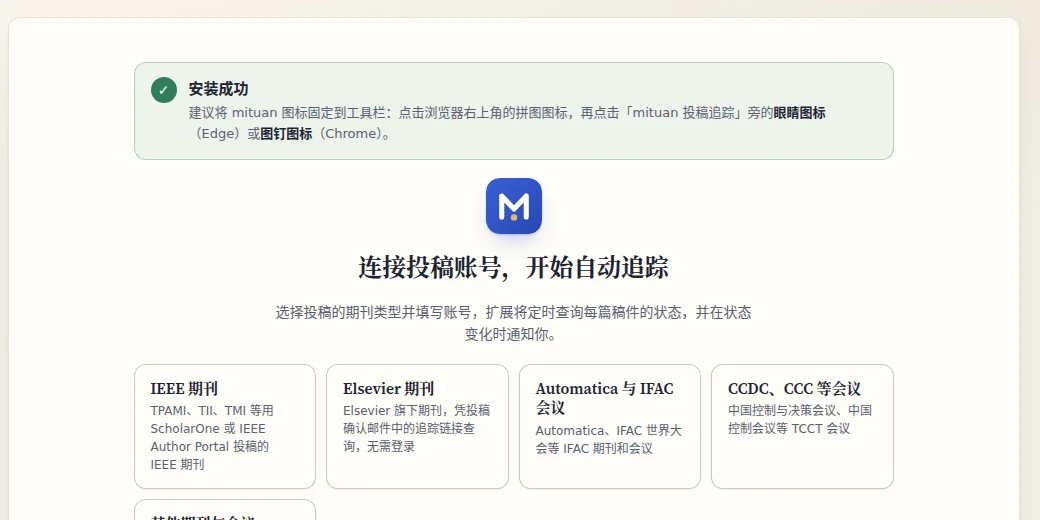
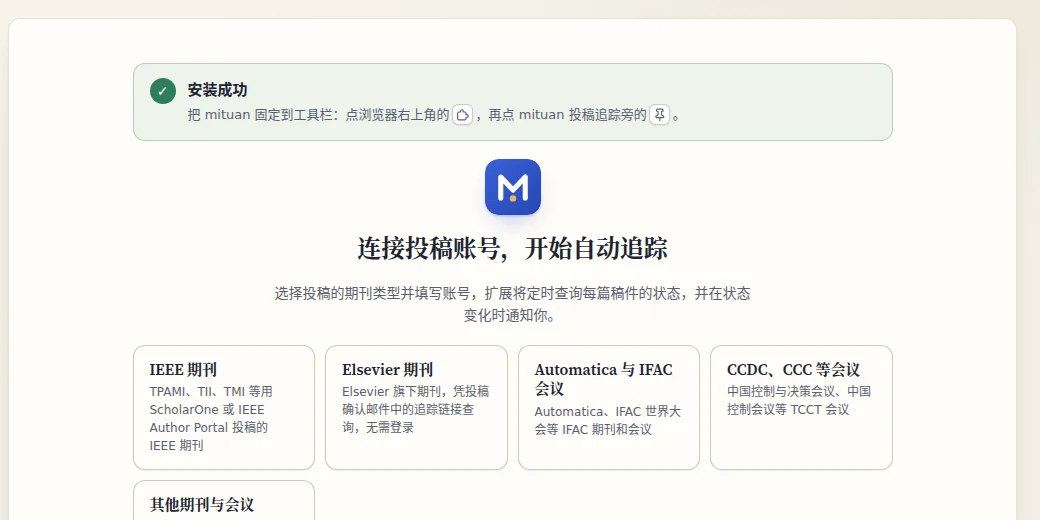
feat(site): let Edge install from the Chrome Web Store
The Chrome Web Store listing is live while Edge Add-ons is still in review, and Edge can install extensions from the Chrome Web Store. The install panel now reflects that:

- Mark both Edge and Chrome as recommended.
- Keep Edge Add-ons at the top of the Edge tab. While it is in review it shows a dashed "in review" placeholder followed by the Chrome Web Store button and its steps; once it is live, the Chrome Web Store drops to a one-line link.
- Replace the heavy solid store buttons and the store headings with a lighter tinted button that follows the light and dark themes.
- Show toolbar icons instead of words in the pin tip, with the Edge eye or Chrome pin per tab, and pick the matching welcome screenshot.
- Top-align the screenshot so it stays put when switching tabs.
- List Brave, Vivaldi and Opera in full on the Other Chromium tab, and drop the redundant first step and the duplicate FAQ entry.

diff --git a/site/index.html b/site/index.html
@@ -188,15 +188,16 @@
     </div>
   </section>
 
-  <!-- 安装：只从浏览器的扩展商店安装。__EDGE_URL__、__CHROME_URL__ 由 scripts/build-site.sh 填入；还没上架的商店留空，site.js 会显示“审核中” -->
+  <!-- 安装：只从浏览器的扩展商店安装。__EDGE_URL__、__CHROME_URL__ 由 scripts/build-site.sh 填入，还没上架的商店留空。
+       Edge 优先用 Edge 加载项，还没上架时改用 Chrome 应用商店（Edge 可以直接安装那里的扩展），由 site.js 选择 -->
   <section class="wrap" id="install">
     <div class="head"><h2><span data-l="zh">安装</span><span data-l="en">Install</span></h2>
       <p><span data-l="zh">从浏览器的扩展商店安装，点一下就好，之后自动更新。</span><span data-l="en">Install from your browser’s extension store in one click. Updates are automatic.</span></p></div>
     <div class="mobile-note card" id="mobileNote" hidden><span data-l="zh">手机浏览器不支持扩展，请在电脑上访问 <b>tracker.eonmaze.com</b> 安装。</span><span data-l="en">Mobile browsers do not support extensions. Open <b>tracker.eonmaze.com</b> on a computer to install.</span></div>
     <div class="browsers" role="tablist" aria-label="Choose your browser">
-      <button type="button" role="tab" data-b="edge"><span class="bi bi-edge"></span>Edge<small><span data-l="zh">推荐</span><span data-l="en">Recommended</span></small></button>
-      <button type="button" role="tab" data-b="chrome"><span class="bi bi-chrome"></span>Chrome<small>Google</small></button>
-      <button type="button" role="tab" data-b="chromium"><span class="bi bi-other"></span><span data-l="zh">其他 Chromium</span><span data-l="en">Other Chromium</span><small><span data-l="zh">Brave、Vivaldi…</span><span data-l="en">Brave, Vivaldi…</span></small></button>
+      <button type="button" role="tab" data-b="edge"><span class="bi bi-edge"></span>Edge<small class="rec"><span data-l="zh">推荐</span><span data-l="en">Recommended</span></small></button>
+      <button type="button" role="tab" data-b="chrome"><span class="bi bi-chrome"></span>Chrome<small class="rec"><span data-l="zh">推荐</span><span data-l="en">Recommended</span></small></button>
+      <button type="button" role="tab" data-b="chromium"><span class="bi bi-other"></span><span data-l="zh">其他 Chromium</span><span data-l="en">Other Chromium</span><small><span data-l="zh">Brave、Vivaldi、Opera</span><span data-l="en">Brave, Vivaldi, Opera</span></small></button>
       <button type="button" role="tab" data-b="firefox"><span class="bi bi-firefox"></span>Firefox<small><span data-l="zh">暂不支持</span><span data-l="en">Not supported</span></small></button>
       <button type="button" role="tab" data-b="safari"><span class="bi bi-safari"></span>Safari<small><span data-l="zh">暂不支持</span><span data-l="en">Not supported</span></small></button>
     </div>
@@ -204,40 +205,41 @@
     <div class="card panel" data-for="edge chrome chromium">
       <div class="store">
         <div class="itxt">
-          <div data-only="edge">
-            <h3><span class="bi bi-edge"></span><span data-l="zh">Microsoft Edge 加载项</span><span data-l="en">Microsoft Edge Add-ons</span></h3>
-            <a class="btn primary lg" href="__EDGE_URL__" target="_blank" rel="noopener" data-store="edge"><span data-l="zh">从 Edge 加载项获取</span><span data-l="en">Get it from Edge Add-ons</span></a>
+          <!-- 每个商店一块：按钮写好商店地址，build-site.sh 填入；还没上架的留空，site.js 换成“审核中”占位 -->
+          <div data-only="edge" data-via="edge">
+            <a class="btn get" href="__EDGE_URL__" target="_blank" rel="noopener" data-store="edge"><span data-l="zh">前往 Edge 加载项</span><span data-l="en">Open Edge Add-ons</span></a>
             <ol class="do">
-              <li><span data-l="zh">点上面的按钮，打开「mituan 投稿追踪」的商店页面。</span><span data-l="en">Click the button above to open the “mituan Manuscript Tracker” store page.</span></li>
               <li><span data-l="zh">点<b>「获取」</b>，在弹出的窗口中点<b>「添加扩展」</b>。</span><span data-l="en">Click <b>“Get”</b>, then <b>“Add extension”</b> in the dialog.</span></li>
-              <li><span data-l="zh">浏览器会自动打开「安装成功」页面。在那里选择期刊类型、连接账号，扩展就开始在后台查询。</span><span data-l="en">The browser opens a welcome page. Choose your journal types and connect your accounts there; checks then run in the background.</span></li>
+              <li><span data-l="zh">装好后会自动打开「安装成功」页面，按提示连接账号即可。</span><span data-l="en">A welcome page opens after installing. Follow it to connect your accounts.</span></li>
             </ol>
-            <p class="tip"><span data-l="zh">建议把图标固定到工具栏：点浏览器右上角的<b>拼图图标</b>，再点「mituan 投稿追踪」旁的<b>眼睛图标</b>。</span><span data-l="en">Pin the icon to the toolbar: click the <b>puzzle icon</b> at the top right of the browser, then the <b>eye icon</b> next to “mituan Manuscript Tracker”.</span></p>
           </div>
-          <div data-only="chrome chromium">
-            <h3><span class="bi bi-chrome"></span><span data-l="zh">Chrome 应用商店</span><span data-l="en">Chrome Web Store</span></h3>
-            <a class="btn primary lg" href="__CHROME_URL__" target="_blank" rel="noopener" data-store="chrome"><span data-l="zh">从 Chrome 应用商店添加</span><span data-l="en">Add from Chrome Web Store</span></a>
-            <p class="cn-note" hidden><span data-l="zh">中国大陆通常打不开 Chrome 应用商店，可以改用 Edge 打开本页安装。</span><span data-l="en">The Chrome Web Store usually doesn’t open in mainland China. Open this page in Edge and install from there instead.</span></p>
+          <!-- Edge 页签里只在 Edge 加载项还没上架时出现，见 site.js -->
+          <div data-only="edge chrome chromium" data-via="chrome">
+            <p class="or" data-only="edge"><span data-l="zh">现在可以先从 Chrome 应用商店安装：</span><span data-l="en">For now, you can install it from the Chrome Web Store:</span></p>
+            <a class="btn get" href="__CHROME_URL__" target="_blank" rel="noopener" data-store="chrome"><span data-l="zh">前往 Chrome 应用商店</span><span data-l="en">Open Chrome Web Store</span></a>
+            <p class="cn-note" data-edge="live" hidden><span data-l="zh">中国大陆通常打不开 Chrome 应用商店，可以改用 Edge 打开本页安装。</span><span data-l="en">The Chrome Web Store usually doesn’t open in mainland China. Open this page in Edge and install from there instead.</span></p>
+            <p class="cn-note" data-edge="pending" hidden><span data-l="zh">中国大陆通常打不开 Chrome 应用商店，可以等 Edge 加载项上线后用 Edge 安装。</span><span data-l="en">The Chrome Web Store usually doesn’t open in mainland China. You can install with Edge once the Edge Add-ons listing is live.</span></p>
             <ol class="do">
-              <li><span data-l="zh">点上面的按钮，打开「mituan 投稿追踪」的商店页面。</span><span data-l="en">Click the button above to open the “mituan Manuscript Tracker” store page.</span></li>
-              <li><span data-l="zh">点<b>「添加至 Chrome」</b>，在弹出的窗口中点<b>「添加扩展程序」</b>。</span><span data-l="en">Click <b>“Add to Chrome”</b>, then <b>“Add extension”</b> in the dialog.</span></li>
-              <li><span data-l="zh">浏览器会自动打开「安装成功」页面。在那里选择期刊类型、连接账号，扩展就开始在后台查询。</span><span data-l="en">The browser opens a welcome page. Choose your journal types and connect your accounts there; checks then run in the background.</span></li>
+              <li data-only="edge"><span data-l="zh">首次安装时，点页面顶部的<b>「允许来自其他应用商店的扩展」</b>，再点<b>「允许」</b>。</span><span data-l="en">The first time, click <b>“Allow extensions from other stores”</b> at the top of the page, then <b>“Allow”</b>.</span></li>
+              <li data-only="edge"><span data-l="zh">点<b>「添加至 Chrome」</b>，在弹出的窗口中点<b>「添加扩展」</b>。</span><span data-l="en">Click <b>“Add to Chrome”</b>, then <b>“Add extension”</b> in the dialog.</span></li>
+              <li data-only="chrome"><span data-l="zh">点<b>「添加至 Chrome」</b>，在弹出的窗口中点<b>「添加扩展程序」</b>。</span><span data-l="en">Click <b>“Add to Chrome”</b>, then <b>“Add extension”</b> in the dialog.</span></li>
+              <li data-only="chromium"><span data-l="zh">点<b>「添加至 Chrome」</b>，再确认添加。</span><span data-l="en">Click <b>“Add to Chrome”</b> and confirm.</span></li>
+              <li><span data-l="zh">装好后会自动打开「安装成功」页面，按提示连接账号即可。</span><span data-l="en">A welcome page opens after installing. Follow it to connect your accounts.</span></li>
             </ol>
-            <p class="tip" data-only="chrome"><span data-l="zh">建议把图标固定到工具栏：点浏览器右上角的<b>拼图图标</b>，再点「mituan 投稿追踪」旁的<b>图钉图标</b>。</span><span data-l="en">Pin the icon to the toolbar: click the <b>puzzle icon</b> at the top right of the browser, then the <b>pin icon</b> next to “mituan Manuscript Tracker”.</span></p>
-            <p class="tip" data-only="chromium"><span data-l="zh">Brave、Vivaldi 一般可以直接从 Chrome 应用商店安装，按钮名称可能不同。Opera 要先安装官方的「Install Chrome Extensions」扩展，再从 Chrome 应用商店安装。各浏览器未逐一测试。</span><span data-l="en">Brave and Vivaldi can usually install straight from the Chrome Web Store, though the button names may differ. In Opera, first add its official “Install Chrome Extensions” extension, then install from the Chrome Web Store. Not every browser has been tested.</span></p>
           </div>
+          <p class="tip pin" data-only="edge chrome"><span data-l="zh"><b>固定到工具栏</b>：点<span class="nb">右上角<span class="ki" data-ki="puzzle"></span>，</span>再点 mituan 投稿追踪<span class="nb">旁的<span class="ki" data-ki="toolbar"></span>。</span></span><span data-l="en"><b>Pin it to the toolbar:</b> <span class="nb">click <span class="ki" data-ki="puzzle"></span></span> at the top right, <span class="nb">then <span class="ki" data-ki="toolbar"></span></span> next to mituan Manuscript Tracker.</span></p>
+          <p class="tip" data-only="chromium" data-needs="chrome"><span data-l="zh">Brave、Vivaldi 的按钮名称可能略有不同；Opera 要先安装官方的「Install Chrome Extensions」扩展。</span><span data-l="en">Button names may differ slightly in Brave and Vivaldi. Opera needs its official “Install Chrome Extensions” extension first.</span></p>
+          <!-- Edge 加载项上架后，Chrome 应用商店在 Edge 页签里退到这一行 -->
+          <p class="alt" data-only="edge"><span data-l="zh">也可以从 <a href="__CHROME_URL__" target="_blank" rel="noopener">Chrome 应用商店</a>安装。</span><span data-l="en">You can also install it from the <a href="__CHROME_URL__" target="_blank" rel="noopener">Chrome Web Store</a>.</span></p>
         </div>
         <figure class="ishot">
-          <img id="welcomeShot" src="img/install/welcome.webp" width="1040" height="520" loading="lazy" alt="">
+          <img id="welcomeShot" src="img/install/welcome-edge.webp" width="1040" height="520" loading="lazy" alt="">
           <figcaption><span data-l="zh">装好后自动打开的页面</span><span data-l="en">The page that opens after installing</span></figcaption>
         </figure>
       </div>
 
       <div class="trouble">
         <h3><span data-l="zh">安装后的常见问题</span><span data-l="en">After installing</span></h3>
-        <details><summary><span data-l="zh">工具栏上找不到 mituan 图标</span><span data-l="en">The mituan icon is not on the toolbar</span></summary>
-          <p data-l="zh">点浏览器右上角的拼图图标，再点「mituan 投稿追踪」旁的固定按钮（Edge 是眼睛图标，Chrome 是图钉图标），把它固定到工具栏。</p>
-          <p data-l="en">Click the puzzle icon at the top right of the browser, then the pin button next to “mituan Manuscript Tracker” (an eye icon in Edge, a pin icon in Chrome) to keep it on the toolbar.</p></details>
         <details><summary><span data-l="zh">怎么更新到新版本？</span><span data-l="en">How do I update?</span></summary>
           <p data-l="zh">不用操作。商店会自动更新扩展，账号和记录都会保留。</p>
           <p data-l="en">You don’t need to do anything. The store updates the extension automatically, and your accounts and records are kept.</p></details>

diff --git a/site/site.js b/site/site.js
@@ -23,6 +23,11 @@
     moon: '<path d="M12 3a6 6 0 0 0 9 9 9 9 0 1 1-9-9Z"/>',
     clock: '<circle cx="12" cy="12" r="10"/><path d="M12 6v6l4 2"/>',
     lock: '<rect width="18" height="11" x="3" y="11" rx="2"/><path d="M7 11V7a5 5 0 0 1 10 0v4"/>',
+    out: '<path d="M7 7h10v10"/><path d="M7 17 17 7"/>', // 商店按钮上的“在新页面打开”
+    // 浏览器工具栏上的按钮，与扩展 ui/common.js 里的相同：扩展（拼图）、Edge 的眼睛、Chrome 的图钉
+    puzzle: '<path d="M5 7h3V5.25a2.25 2.25 0 0 1 4.5 0V7h3a2 2 0 0 1 2 2v2.75h1.75a2.25 2.25 0 0 1 0 4.5H17.5V19a2 2 0 0 1-2 2H5a2 2 0 0 1-2-2V9a2 2 0 0 1 2-2Z"/>',
+    eye: '<path d="M2.062 12.348a1 1 0 0 1 0-.696 10.75 10.75 0 0 1 19.876 0 1 1 0 0 1 0 .696 10.75 10.75 0 0 1-19.876 0"/><circle cx="12" cy="12" r="3"/>',
+    pin: '<path d="M12 17v5"/><path d="M9 10.76a2 2 0 0 1-1.11 1.79l-1.78.9A2 2 0 0 0 5 15.24V16a1 1 0 0 0 1 1h12a1 1 0 0 0 1-1v-.76a2 2 0 0 0-1.11-1.79l-1.78-.9A2 2 0 0 1 15 10.76V7a1 1 0 0 1 1-1 2 2 0 0 0 0-4H8a2 2 0 0 0 0 4 1 1 0 0 1 1 1z"/>',
   };
   for (const k of ['list', 'bell', 'moon', 'clock']) $$(`.fi-${k}`).forEach((el) => (el.innerHTML = svg(ICONS[k])));
   $$('.lk').forEach((el) => (el.innerHTML = svg(ICONS.lock)));
@@ -79,22 +84,40 @@
     applyLang();
   }));
 
-  // ===== 安装：只从扩展商店装。Edge 用 Edge 加载项，Chrome 和其他 Chromium 浏览器用 Chrome 应用商店 =====
-  // 商店地址由 build-site.sh 写进按钮的 href；还没上架的商店留空，按钮换成“审核中”的说明，安装步骤和提示一并去掉。
+  // ===== 安装：只从扩展商店装 =====
+  // 商店地址由 build-site.sh 写进按钮的 href，还没上架的留空。
+  // Edge 页签最上面始终是 Edge 加载项。它还没上架时，下面接着放 Chrome 应用商店（Edge 可以直接安装那里的扩展）；
+  // 上架后 Chrome 应用商店退成底部的一行链接。
   const storeUrl = (id) => $(`a[data-store="${id}"]`)?.getAttribute('href') || '';
-  $$('a[data-store]').forEach((a) => {
-    if (a.getAttribute('href')) return;
-    a.parentElement.querySelectorAll('.do, .tip, .cn-note').forEach((el) => el.remove());
-    const p = document.createElement('p');
-    p.className = 'tip pending';
-    p.innerHTML = a.dataset.store === 'edge'
-      ? '<span data-l="zh">Edge 加载项正在审核，上线后就能在这里安装。</span><span data-l="en">The Edge Add-ons listing is under review. You can install it here once it is live.</span>'
-      : '<span data-l="zh">Chrome 应用商店正在审核，上线后就能在这里安装。</span><span data-l="en">The Chrome Web Store listing is under review. You can install it here once it is live.</span>';
-    a.replaceWith(p);
+  const edgeLive = !!storeUrl('edge');
+  const chromeLive = !!storeUrl('chrome');
+  if (edgeLive || !chromeLive) $('[data-via="chrome"]').dataset.only = 'chrome chromium';
+  if (!edgeLive || !chromeLive) $('.alt').remove();
+  if (!chromeLive) $$('[data-needs="chrome"]').forEach((el) => el.remove());
+  // 已上架的按钮加上“新页面打开”的箭头；还没上架的换成同样高度的虚线“审核中”占位，安装步骤和相关提示一并去掉
+  const STORE_NAME = { edge: ['Edge 加载项', 'Edge Add-ons'], chrome: ['Chrome 应用商店', 'Chrome Web Store'] };
+  $$('a.btn[data-store]').forEach((a) => {
+    if (a.getAttribute('href')) {
+      a.insertAdjacentHTML('beforeend', svg(ICONS.out).replace('<svg ', '<svg aria-hidden="true" '));
+      return;
+    }
+    const block = a.closest('[data-via]');
+    block.dataset.pending = '';
+    block.querySelectorAll('.do, .cn-note, .or').forEach((el) => el.remove());
+    const [zh, en] = STORE_NAME[a.dataset.store];
+    const ph = document.createElement('span');
+    ph.className = 'btn get off';
+    ph.innerHTML = `<span data-l="zh">${zh}</span><span data-l="en">${en}</span><small><span data-l="zh">审核中</span><span data-l="en">In review</span></small>`;
+    a.replaceWith(ph);
   });
   const ALT = {
     zh: '装好后自动打开的安装成功页面，下面是选择期刊类型、连接账号',
     en: 'Welcome page that opens after installing, with journal type selection and account connection below',
+  };
+  // 固定到工具栏的按钮：Edge 的扩展菜单里是眼睛「在工具栏中显示」，Chrome 是图钉「固定」
+  const KI = {
+    puzzle: () => [ICONS.puzzle, L('扩展', 'Extensions')],
+    toolbar: (b) => (b === 'edge' ? [ICONS.eye, L('在工具栏中显示', 'Show in toolbar')] : [ICONS.pin, L('固定', 'Pin')]),
   };
 
   let browser = 'edge';
@@ -106,6 +129,21 @@
     });
     $$('.panel').forEach((p) => (p.hidden = !p.dataset.for.split(' ').includes(id)));
     $$('[data-only]').forEach((el) => (el.hidden = !el.dataset.only.split(' ').includes(id)));
+    // 当前页签里的商店都还在审核时，不显示固定到工具栏的提示
+    const pin = $('.tip.pin');
+    if (!$$('[data-via]').some((b) => !b.hidden && !('pending' in b.dataset))) pin.hidden = true;
+    $$('.ki', pin).forEach((el) => {
+      const [icon, label] = KI[el.dataset.ki](id);
+      el.innerHTML = svg(icon);
+      el.title = label;
+      el.setAttribute('role', 'img');
+      el.setAttribute('aria-label', label);
+    });
+    // 示意图里的安装成功提示同样按浏览器画眼睛或图钉
+    const shot = $('#welcomeShot');
+    const src = `img/install/${lang === 'en' ? 'en/' : ''}welcome${id === 'edge' ? '-edge' : ''}.webp`;
+    if (shot.getAttribute('src') !== src) shot.src = src;
+    shot.alt = ALT[lang];
   };
   $$('.browsers button').forEach((el) => el.addEventListener('click', () => pick(el.dataset.b)));
 
@@ -117,10 +155,10 @@
     : /Chrome\//.test(ua) ? 'chrome'
     : /Safari\//.test(ua) ? 'safari' : 'edge';
   $('#mobileNote').hidden = !mobile;
-  // 中国大陆一般打不开 Chrome 应用商店：按时区判断（港澳台时区不同），只给大陆用户看改用 Edge 的提示
+  // 中国大陆一般打不开 Chrome 应用商店：按时区判断（港澳台时区不同），只给大陆用户看提示，也不再列出 Chrome 应用商店这条备选
   const mainland = /^(Asia\/(Shanghai|Chongqing|Chungking|Harbin|Urumqi|Kashgar)|PRC)$/.test(Intl.DateTimeFormat().resolvedOptions().timeZone || '');
-  const cnNote = $('.cn-note');
-  if (cnNote) cnNote.hidden = !mainland;
+  $$('.cn-note').forEach((el) => (el.dataset.edge === (edgeLive ? 'live' : 'pending') ? (el.hidden = !mainland) : el.remove()));
+  if (mainland) $('.alt')?.remove();
   // 首屏按钮：在 Edge / Chrome 里直接打开对应的商店页面（一键安装）；其他情况，以及大陆的 Chrome 用户，跳到安装区
   const heroStore = !mobile && (detected === 'edge' || (detected === 'chrome' && !mainland)) && storeUrl(detected) ? detected : null;
   if (heroStore) {
@@ -160,10 +198,6 @@
     auto.setAttribute('aria-label', auto.title);
     $$('.langsw button').forEach((b) => b.classList.toggle('on', b.dataset.lg === langPref));
     $('#heroCta').textContent = ctaText();
-    const welcome = $('#welcomeShot');
-    const src = `img/install/${lang === 'en' ? 'en/' : ''}welcome.webp`;
-    if (welcome.getAttribute('src') !== src) welcome.src = src;
-    welcome.alt = ALT[lang];
     pick(browser);
   }
   browser = detected;

diff --git a/site/site.css b/site/site.css
@@ -214,6 +214,7 @@ html[data-lang="zh"] .systab thead th { font: 600 13px var(--sans); font-style: 
 .browsers { display: grid; grid-template-columns: repeat(5, minmax(0, 1fr)); gap: 10px; margin-bottom: 16px; }
 .browsers button { display: grid; justify-items: center; gap: 6px; padding: 14px 8px 12px; border-radius: var(--radius); font-size: 14.5px; font-weight: 600; line-height: 1.3; white-space: normal; }
 .browsers button small { font-size: 11.5px; font-weight: 400; color: var(--faint); }
+.browsers button small.rec { padding: 0 8px; border-radius: 99px; font-weight: 600; color: var(--ok); background: color-mix(in srgb, var(--ok) 11%, transparent); }
 .browsers button.on { border-color: rgba(var(--accent-rgb), .6); background: color-mix(in srgb, var(--accent-text) 6%, var(--card-solid)); box-shadow: inset 0 0 0 1px rgba(var(--accent-rgb), .4), 0 10px 20px -14px rgba(var(--accent-rgb), .6); }
 .bi { width: 30px; height: 30px; border-radius: 50%; display: block; position: relative; }
 .bi.big { width: 52px; height: 52px; flex: none; }
@@ -228,14 +229,21 @@ html[data-lang="zh"] .systab thead th { font: 600 13px var(--sans); font-style: 
 .bi-safari::after { content: ""; position: absolute; left: 47%; top: 12%; width: 6%; height: 76%; background: linear-gradient(#ff3b30 50%, #fff 50%); transform: rotate(45deg); border-radius: 2px; }
 .panel { padding: 30px 32px; }
 .panel[hidden] { display: none; }
-/* 商店安装：左边商店按钮和三步说明，右边是装好后自动打开的页面 */
+/* 商店安装：左边商店按钮和几步说明，右边是装好后自动打开的页面。两边顶端对齐，切换页签时示意图不跟着上下跳 */
 .panel [hidden] { display: none !important; }
-.store { display: grid; grid-template-columns: minmax(0, 5fr) minmax(0, 6fr); gap: 40px; align-items: center; padding: 6px 0 30px; }
-.store h3 { display: flex; align-items: center; gap: 12px; font: 600 22px/1.4 var(--serif); margin-bottom: 18px; }
-.store h3 .bi { width: 26px; height: 26px; }
-.store .btn { margin-bottom: 6px; }
-.store .pending { margin: 0 0 6px; }
-.do { list-style: none; counter-reset: do; padding: 0; margin: 16px 0; }
+.store { display: grid; grid-template-columns: minmax(0, 5fr) minmax(0, 6fr); gap: 40px; align-items: start; padding: 6px 0 30px; }
+/* 商店按钮：品牌色的浅底和细边，亮暗主题下各自协调；首屏的实心按钮仍是全页最醒目的一个 */
+.btn.get { padding: 10px 18px; letter-spacing: .01em; color: var(--accent-text); background: rgba(var(--accent-rgb), .07);
+           border-color: rgba(var(--accent-rgb), .3); box-shadow: none; }
+.btn.get:hover { background: rgba(var(--accent-rgb), .12); border-color: rgba(var(--accent-rgb), .55); box-shadow: none; }
+.btn.get svg { width: 16px; height: 16px; margin-right: -2px; }
+/* 还没上架的商店：同样高度的虚线占位 */
+.btn.get.off { color: var(--faint); background: none; border: 1px dashed var(--line-strong); pointer-events: none; }
+.btn.get.off small { padding: 1px 8px; border-radius: 99px; font-size: 12px; color: var(--muted); background: rgba(127, 127, 127, .12); }
+.store .or { margin: 18px 0 10px; font-size: 14px; color: var(--muted); }
+.store .alt { font-size: 13.5px; color: var(--muted); margin: 14px 0 0; }
+.store .cn-note { font-size: 13.5px; color: var(--muted); margin: 10px 0 0; }
+.do { list-style: none; counter-reset: do; padding: 0; margin: 14px 0 12px; }
 .do li { counter-increment: do; position: relative; padding-left: 30px; margin-bottom: 12px; color: var(--muted); }
 .do li::before { content: counter(do); position: absolute; left: 0; top: 2px; width: 21px; height: 21px; border-radius: 50%; display: grid; place-items: center;
                  font: 600 12.5px/1 var(--serif); color: var(--accent-text); border: 1px solid rgba(var(--accent-rgb), .4); }
@@ -343,7 +351,6 @@ footer { border-top: 3px double var(--line-strong); padding: 26px 0 36px; }
   .navin #themeSlot { display: none; }
   .navin #langSlot { margin-left: auto; }
   .panel { padding: 22px 18px; }
-  .store h3 { font-size: 19px; }
   .soon { flex-direction: column; }
   .notice { right: 0; }
   .lockchip { display: none; }
@@ -360,4 +367,3 @@ footer { border-top: 3px double var(--line-strong); padding: 26px 0 36px; }
   .navin .langsw button { width: 26px; }
   .navin .btn.sm { padding: 7px 10px; }
 }
-.store .cn-note { font-size: 13.5px; color: var(--muted); margin: 10px 0 0; }
